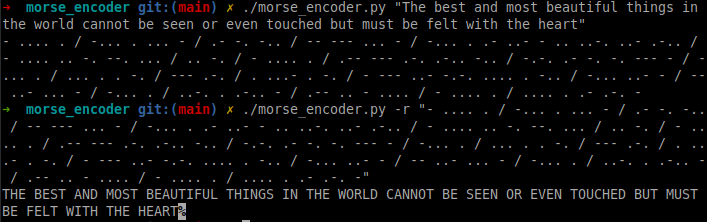
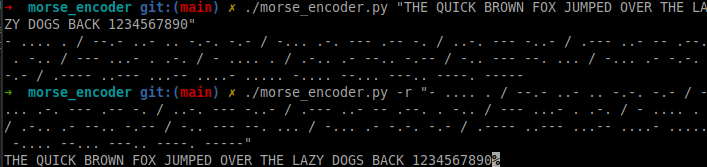
Fix space missing on '9' in Alphabet + redo test screenshots

diff --git a/alphadigit/alphadigit.py b/alphadigit/alphadigit.py
@@ -1,0 +1,88 @@
+#!/usr/bin/env python3
+# -*- coding: utf-8 -*-
+
+"""
+A numbered alphabet cipher.
+
+During encryption, it takes command-line arguments, convert each argument to a series of numbers representing the position of each character in the alphabet, and prints the results.
+
+The reverse process is done during decryption.
+"""
+
+from sys import stderr
+import sys
+import config
+from argv_validation import _check_argv
+from cryptography import _encrypt, _decrypt
+
+"""
+Print suitable messages and run encryption or decrpytion.
+"""
+
+
+def _run_encryption_decryption(_arg):
+    _space_mode = config._g_flags & config._Flag.OPTSPACE.value
+    _encryption_mode = config._g_flags & config._Flag.ALPHA.value
+    _src_msg = "Original message: " if _encryption_mode \
+        else "Encrypted message: "
+    _dest_msg = "Encypted message: " if _encryption_mode \
+        else "decrypted message: "
+
+    # Print original text if in verbose mode
+    if (config._g_flags & config._Flag.OPTVERBOSE.value):
+        print("")
+        sys.stdout.write(_src_msg)
+        print(_arg)
+    # Print processed text if in verbose mode
+        sys.stdout.write(_dest_msg)
+        sys.stdout.write(config._Color.MAGENTA.value)
+
+    # Process data
+    if config._g_flags & config._Flag.ALPHA.value:
+        _encrypt(_arg)
+    else:
+        _decrypt(_arg)
+
+    # Reset color
+    if (config._g_flags & config._Flag.OPTVERBOSE.value):
+        sys.stdout.write(config._Color.RESET.value)
+
+
+def main():
+    _argc = len(sys.argv)
+
+    if _argc < 2:
+        print("\nUsage: ./alphadigit [source],...\n\n"
+        "-s: spaces between numbers in encryption mode's output string.\n"
+        "-v: verbose mode. Useful to desactivate when reusing the "
+        "output through pipes, etc.\n")
+        sys.exit(1)
+
+    _argc = _check_argv(_argc, sys.argv)
+    if config._g_flags & config._Flag.ERROR.value:
+        print(
+            "ERROR: Arguments can only contain either all digits or all"
+            " letters, but not both."
+            )
+        sys.exit(1)
+
+    # Run encryption/decryption
+    for i in range(1, _argc):
+        _arg = sys.argv[i]
+        _run_encryption_decryption(_arg)
+        if config._g_flags & config._Flag.OPTVERBOSE.value:
+            print("\n")
+
+    if config._g_flags & config._Flag.OPTVERBOSE.value:
+        if config._g_flags & config._Flag.ALPHA.value:
+            print(config._Color.GREEN.value + "Encryption complete!" + \
+                config._Color.RESET.value)
+        else:
+            print(config._Color.GREEN.value + "Decryption complete!" + \
+                config._Color.RESET.value)
+
+if __name__ == "__main__":
+    try:
+        main()
+    except Exception as e:
+        print(f"Error: {e}", file=stderr)

diff --git a/alphabet/alphabet.py b/alphabet/alphabet.py
@@ -5,7 +5,7 @@ from argparse import ArgumentParser, Namespace
 import json
 
 
-class CustomAlphabetEncoder:
+class Alphabet:
     """
     The program takes a string as an argument and encodes or decodes it
     according to our custom alphabet.
@@ -98,15 +98,17 @@ def parse_args() -> Namespace:
 
     # Add arguments
     parser.add_argument(
-        'string', type=str, help='The text to convert'
+        'string_to_convert', type=str, help='the text to convert'
         )
     parser.add_argument(
-        'alphabet', type=str, help='JSON file containing the custom alphabet'
+        'alphabet_dict',
+        type=str,
+        help='JSON file containing the custom alphabet'
         )
 
     parser.add_argument(
         '-r', '--reverse', action='store_true',
-        help="Convert an encoded text to the original text")
+        help="convert an encoded text to the original text")
 
     return parser.parse_args()
 
@@ -115,11 +117,16 @@ def main():
     args = parse_args()
 
     # Open the file and load the dictionary
-    with open(args.alphabet, 'r') as file:
+    with open(args.alphabet_dict, 'r') as file:
         alphabet_dict = json.load(file)
+    
+    if not alphabet_dict:
+        raise AssertionError("Alphabet dictionary is empty!")
 
-    encoder = CustomAlphabetEncoder(
-            args.string, alphabet_dict, args.reverse
+    encoder = Alphabet(
+            args.string_to_convert,
+            alphabet_dict,
+            args.reverse
         )
 
     if args.reverse:

diff --git a/morse_encoder/morse_encoder.py b/morse_encoder/morse_encoder.py
@@ -67,11 +67,11 @@ def parse_args() -> Namespace:
 
     # Add arguments
     parser.add_argument(
-        'string', type=str, help='The text to convert'
+        'string', type=str, help='the text to convert'
         )
     parser.add_argument(
         '-r', '--reverse', action='store_true',
-        help="Convert from Morse code to alphanumerical string")
+        help="convert from Morse code to alphanumerical string")
 
     return parser.parse_args()
 
@@ -94,4 +94,4 @@ if __name__ == "__main__":
     try:
         main()
     except Exception as e:
-        print(f"AssertionError: {e}", file=stderr)
+        print(f"Error: {e}", file=stderr)

diff --git a/morse_encoder/morse_dict.py b/morse_encoder/morse_dict.py
@@ -40,7 +40,7 @@ def get_alnum_to_morse() -> dict:
         "6": "-.... ",
         "7": "--... ",
         "8": "---.. ",
-        "9": "----."
+        "9": "----. "
     }
 
 
@@ -87,5 +87,5 @@ def get_morse_to_alnum() -> dict:
         "-.... ": "6",
         "--... ": "7",
         "---.. ": "8",
-        "----.": "9"
+        "----. ": "9"
     }

diff --git a/README.md b/README.md
@@ -18,6 +18,7 @@ In cryptography, the simple XOR cipher is a type of additive cipher, an encrypti
 
 Encryption and decryption are done using the same algorithm.
 
+
 ## **XOR with Addition**
 ```c
 void xor_with_additive_cipher(
@@ -35,58 +36,82 @@ We’ve added an additive cipher to the previous XOR cipher:
     2. <byte> - <additive cipher value>
 ```
 
-## **NbrAlpha Cipher**
+## **Alphadigit**
 
 ### **Description**
 A numbered alphabet cipher written in Python.  
 - During encryption, it takes command-line arguments, converts each argument to a series of numbers representing the position of each character in the alphabet, and prints the results.  
 - The reverse process is done during decryption.
-
-It can only decode numbers separated by spaces.  
-Handled alphabetical characters include:  
+- It can only decode numbers separated by spaces.
+- Handled alphabetical characters include:  
 - `a-z`, `Ç-Ü`, `á-Ñ`.  
 - It also handles punctuation.
+- Arguments can only contain either all digits or all letters, but not both. This is to avoid any confusion, as we have a numerical cipher.<br />
+  - For instance, if we left the digits in the final output:
+    - When encoding:<br />
+    `1cm` => *encode* => `1 3 13`
+    - When decoding:<br />
+    `1 3 13` => *decode* => `ACM` != `1cm`
 
+---
 ### **Commands**
 ```bash
-// Usage
-python3 nbralpha [option] [source],...
+# Usage
+./alphadigit [option] [source],...
 
-// option
+# option
 -s: Use spaces between numbers in encryption mode’s output string.
 -v: Verbose mode. Useful to disable when reusing the output through pipes, etc.
 ```
-
+---
 ### **Screenshot**
-<p>
-   <img src="/screenshots/nbralpha.png" width="60%" />
-</p>
-From Edgar Allan Poe's short story "The Gold-Bug".
+<img src="screenshots/alphadigit.png" />
+
+(The inaugural message transmitted over the Moscow–Washington hotline on August 30, 1963, was the test phrase: `THE QUICK BROWN FOX JUMPED OVER THE LAZY DOG'S BACK 1234567890`, which is a [pangram](https://en.wikipedia.org/wiki/Pangram).)
+
 
 ## **HexToBase32**
 
 ### **Description**
 A C++ function to convert a hexadecimal string to a Base32 string.
 
+
 ## **Morse Encoder**
 
 ### **Description**
 A python Class to convert a string into Morse code, and vice versa, handling space and alphanumeric characters with a dictionary lookup.
 
-<img src="screenshots/morse.png" />
-(Quote by Helen Keller)
+### **Commands**
+```bash
+# Usage
+morse_encoder.py [-h] [-r] string
 
-## **Custom Alphabet Encoder**
+# positional arguments:
+  string         the text to convert
+
+# options:
+  -h, --help     show this help message and exit
+  -r, --reverse  convert from Morse code to alphanumerical string
+
+# Example:
+./morse_encoder.py "THE QUICK BROWN FOX JUMPED OVER THE LAZY DOGS BACK 1234567890"
+```
+---
+### **Screenshot**
+<img src="screenshots/morse.png" />
+
+
+## **Alphabet**
 
 ### **Description**
 
 A simple substitution cipher that encodes texts according to a custom alphabet declared in `alphabet.py`.
 
-- The program takes a string as an argument and encodes or decodes it according to our custom alphabet.
+- The program takes a string as an argument and encodes or decodes it according to our **custom alphabet**.
 
-- By default, the custom alphabet supports alphanumeric characters, but you can add any character set you like.
+- By default, the custom alphabet supports **alphanumeric characters**, but you can add any character set you like.
 
-- All unhandled characters will remain unencoded in the final output.
+- All unhandled characters will remain **unencoded** in the final output.
 
 * Default alphabet:
 ```
@@ -105,5 +130,21 @@ A simple substitution cipher that encodes texts according to a custom alphabet d
     'M': 'S',
     ...
 ```
+---
+### **Commands**
+```bash
+# Usage
+alphabet.py [-h] [-r] string_to_convert alphabet_dict
 
-<img src="screenshots/custom_alphabet.png" />
+# positional arguments:
+  string         the text to convert
+  alphabet       JSON file containing the custom alphabet
+
+# options:
+  -h, --help     show this help message and exit
+  -r, --reverse  convert an encoded text to the original text
+```
+---
+### Screenshot
+
+<img src="screenshots/alphabet.png" />
